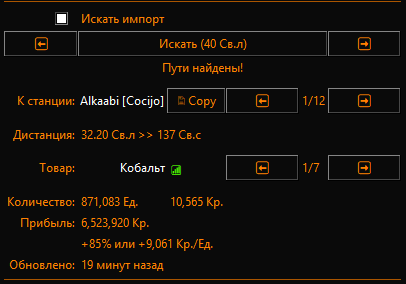
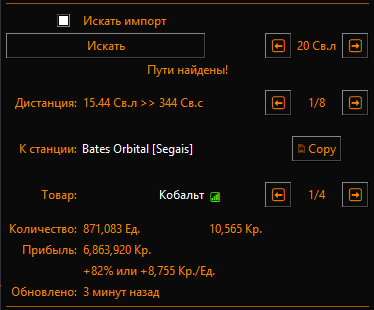
Update version

diff --git a/load.py b/load.py
@@ -33,7 +33,7 @@ except ImportError:  ## test mode
 this = sys.modules[__name__]
 
 PLUGIN_NAME = "ETTC RU"
-PLUGIN_VERSION = "1.3.0"
+PLUGIN_VERSION = "1.3.1"
 
 LOG = LogContext()
 LOG.set_filename(os.path.join(os.path.abspath(os.path.dirname(__file__)), "plugin.log"))
@@ -387,6 +387,7 @@ class ETTC():
     findBtn: None
     decDistBtn: None
     addDistBtn: None
+    distLabel: None
     prevStationBtn: None
     nextStationBtn: None
     prevItemBtn: None
@@ -543,36 +544,38 @@ def plugin_app(parent: tk.Frame):
     this.labels.searchImportLabel = tk.Label(frame, text="Искать импорт", justify=tk.LEFT)
     this.labels.searchImportLabel.grid(row=0, column=1, columnspan=1, sticky=tk.W)
 
-    this.labels.decDistBtn = tk.Button(frame, text="⬅", width=1, state=tk.DISABLED, command=this.decDist)
-    this.labels.decDistBtn.grid(row=1, column=0, sticky="nsew")
-    this.labels.findBtn = tk.Button(frame, text=f"Искать ({distance} Св.л)", state=tk.DISABLED, command=this.getBestTrade)
-    this.labels.findBtn.grid(row=1, column=1, columnspan=4, sticky="nsew")
-    this.labels.addDistBtn = tk.Button(frame, text="➡", width=9, state=tk.DISABLED, command=this.addDist)
+    this.labels.findBtn = tk.Button(frame, text="Искать", state=tk.DISABLED, command=this.getBestTrade)
+    this.labels.findBtn.grid(row=1, column=0, columnspan=2, sticky="nsew")
+    this.labels.decDistBtn = tk.Button(frame, text="⬅", state=tk.DISABLED, command=this.decDist)
+    this.labels.decDistBtn.grid(row=1, column=3, sticky="nsew")
+    this.labels.distLabel = tk.Label(frame, text=f"{distance} Св.л", justify=tk.LEFT)
+    this.labels.distLabel.grid(row=1, column=4, columnspan=1, sticky="nsew")
+    this.labels.addDistBtn = tk.Button(frame, text="➡", state=tk.DISABLED, command=this.addDist)
     this.labels.addDistBtn.grid(row=1, column=5, columnspan=1, sticky="nsew")
 
     this.labels.status = tk.Label(frame, text="", justify=tk.CENTER)
     this.labels.status.grid(row=2, column=0, columnspan=6, sticky="nsew")
 
-    this.labels.plaseLabel = tk.Label(frame, text="К станции:", justify=tk.LEFT)
-    this.labels.plaseLabel.grid(row=4, column=0, sticky=tk.E)
-    this.labels.place = hll(frame, text="", justify=tk.LEFT)
-    # https://inara.cz/elite/station/?search=[sysyem]+[station]
-    this.labels.place["url"]= ""
-    this.labels.place.grid(row=4, column=1, columnspan=1, sticky="nsew")
-    this.labels.placeCopyBtn = tk.Button(frame, text="🗎 Copy", state=tk.DISABLED, command=this.copyPlace)
-    this.labels.placeCopyBtn.grid(row=4, column=2, pady=10, sticky="nsew")
-    this.labels.prevStationBtn = tk.Button(frame, text="⬅", width=9,  state=tk.DISABLED, command=this.getPrevStation)
+    this.labels.distanceLabel = tk.Label(frame, text="Дистанция:", justify=tk.LEFT)
+    this.labels.distanceLabel.grid(row=4, column=0, sticky=tk.E)
+    this.labels.distance = tk.Label(frame, text="", justify=tk.LEFT)
+    this.labels.distance.grid(row=4, column=1, columnspan=1, sticky=tk.W)
+    this.labels.prevStationBtn = tk.Button(frame, text="⬅", state=tk.DISABLED, command=this.getPrevStation)
     this.labels.prevStationBtn.grid(row=4, column=3, columnspan=1, pady=10, sticky="nsew")
     this.labels.stationsCountLabel = tk.Label(frame, text="0/0", justify=tk.LEFT)
     this.labels.stationsCountLabel.grid(row=4, column=4, columnspan=1, sticky="nsew")
-    this.labels.nextStationBtn = tk.Button(frame, text="➡", width=9,  state=tk.DISABLED, command=this.getNextStation)
+    this.labels.nextStationBtn = tk.Button(frame, text="➡", state=tk.DISABLED, command=this.getNextStation)
     this.labels.nextStationBtn.grid(row=4, column=5, columnspan=1, pady=10, sticky="nsew")
 
 
-    this.labels.distanceLabel = tk.Label(frame, text="Дистанция:", justify=tk.LEFT)
-    this.labels.distanceLabel.grid(row=5, column=0, sticky=tk.E)
-    this.labels.distance = tk.Label(frame, text="", justify=tk.LEFT)
-    this.labels.distance.grid(row=5, column=1, columnspan=2, sticky=tk.W)
+    this.labels.plaseLabel = tk.Label(frame, text="К станции:", justify=tk.LEFT)
+    this.labels.plaseLabel.grid(row=5, column=0, sticky=tk.E)
+    this.labels.place = hll(frame, text="", justify=tk.LEFT)
+    # https://inara.cz/elite/station/?search=[sysyem]+[station]
+    this.labels.place["url"]= ""
+    this.labels.place.grid(row=5, column=1, columnspan=5, sticky="nsew")
+    this.labels.placeCopyBtn = tk.Button(frame, text="🗎 Copy", state=tk.DISABLED, command=this.copyPlace)
+    this.labels.placeCopyBtn.grid(row=5, column=4, pady=10, sticky="nsew")
 
     this.labels.resourceLabel = tk.Label(frame, text="Товар:", justify=tk.LEFT)
     this.labels.resourceLabel.grid(row=6, column=0, sticky=tk.E)
@@ -581,11 +584,11 @@ def plugin_app(parent: tk.Frame):
     this.labels.resource.grid(row=6, column=1, columnspan=1, sticky=tk.E)
     this.labels.demand = tk.Label(frame, text="📶", justify=tk.LEFT, fg="#636362")
     this.labels.demand.grid(row=6, column=2, columnspan=1, sticky=tk.W)
-    this.labels.prevItemBtn = tk.Button(frame, text="⬅", width=9,  state=tk.DISABLED, command=this.getPrevItem)
+    this.labels.prevItemBtn = tk.Button(frame, text="⬅", state=tk.DISABLED, command=this.getPrevItem)
     this.labels.prevItemBtn.grid(row=6, column=3, pady=10, sticky=tk.W)
     this.labels.itemsCountLabel = tk.Label(frame, text="0/0", justify=tk.LEFT)
-    this.labels.itemsCountLabel.grid(row=6, column=4, sticky=tk.W)
-    this.labels.nextItemBtn = tk.Button(frame, text="➡", width=9,  state=tk.DISABLED, command=this.getNextItem)
+    this.labels.itemsCountLabel.grid(row=6, column=4, sticky="nsew")
+    this.labels.nextItemBtn = tk.Button(frame, text="➡", state=tk.DISABLED, command=this.getNextItem)
     this.labels.nextItemBtn.grid(row=6, column=5, pady=10, sticky=tk.W)
 
     this.labels.supplyLabel = tk.Label(frame, text="Количество:", justify=tk.LEFT)
@@ -925,12 +928,17 @@ def parseData(html):
 
     if min_demand_filter > 0:
         for station in this.STATIONS:
-            this.ROUTES[station] = [route for route in timed_routes[station] if route.demand >= min_demand_filter]
+            tempRoutes = [route for route in timed_routes[station] if route.demand >= min_demand_filter]
+            if len(tempRoutes) > 0:
+                this.ROUTES[station] = tempRoutes
     else:
         this.ROUTES = timed_routes
 
     for station in this.STATIONS:
-            this.ROUTES_COUNT[station] = len(this.ROUTES[station])
+            if len(this.ROUTES[station]) > 0:
+                this.ROUTES_COUNT[station] = len(this.ROUTES[station])
+    this.STATIONS = list(this.ROUTES_COUNT.keys())
+    this.STATIONS_COUNT = len(this.ROUTES_COUNT)
 
 def renderRoute(route):
     if int(config.get(this.PREFNAME_DEBUG_MODE)):
